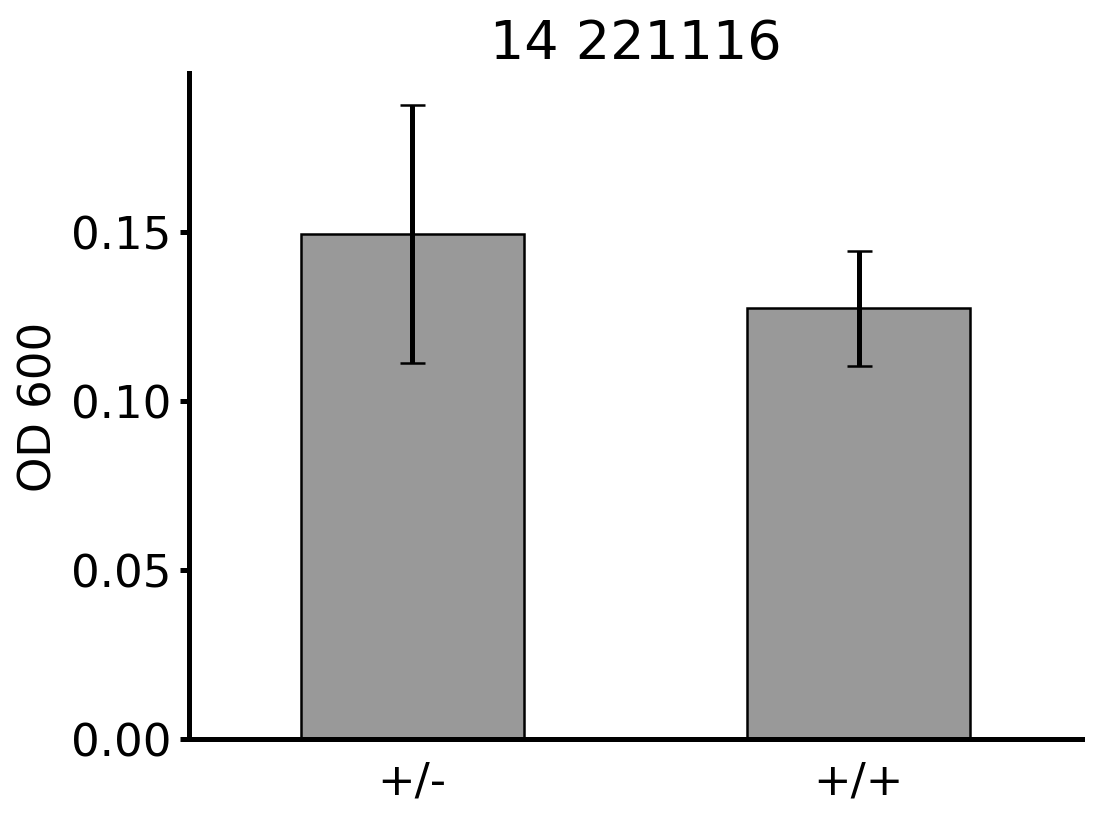
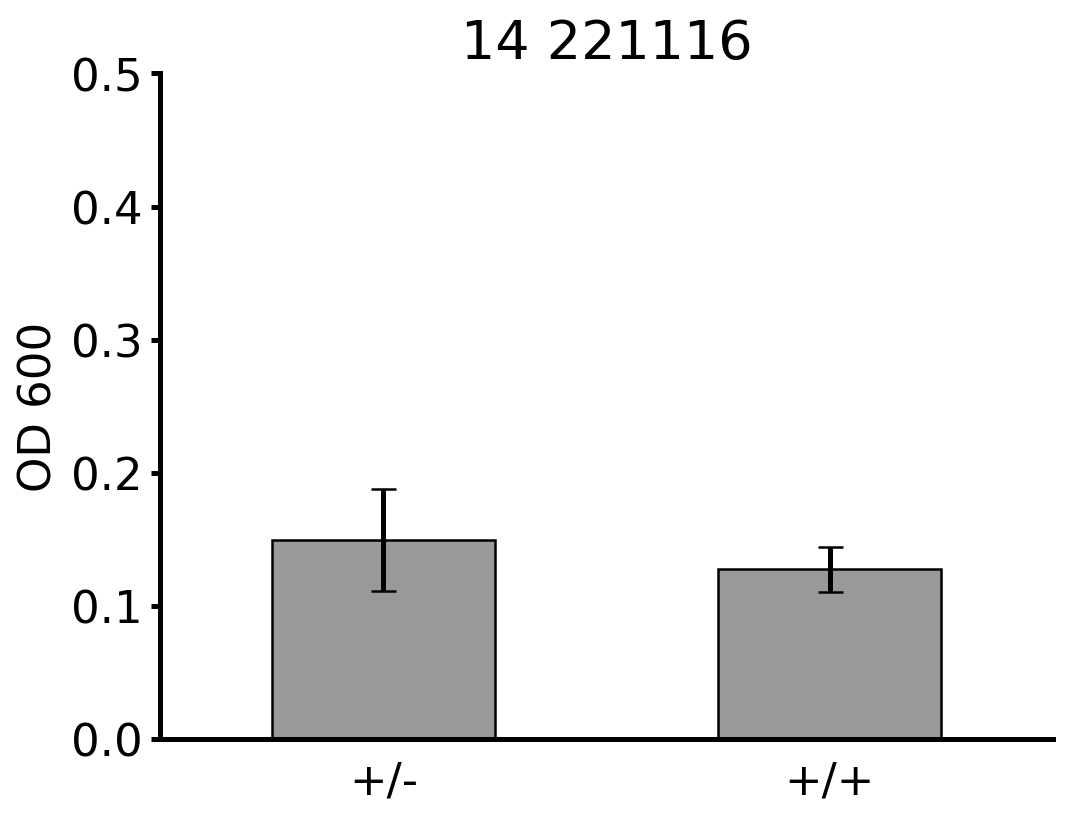
small mods #6

diff --git a/growth_binary/growth_binary.py b/growth_binary/growth_binary.py
@@ -71,7 +71,10 @@ for date in mapping.keys():
         plt.title(strain + ' ' + path[-6:])
         plt.ylabel('OD 600')
         plt.xlabel('')
-        ax.set_ylim((0,None))
+        if exp['mean'].max() > 0.5:
+            ax.set_ylim((0,2.2))
+        else:
+            ax.set_ylim((0,0.5))
         ax.spines['top'].set_visible(False)
         ax.spines['right'].set_visible(False)
         #plt.yticks(np.arange(0, 1.3, 0.25))
@@ -81,5 +84,6 @@ for date in mapping.keys():
         plt.close()
         with open('growth_binary_figures/' + str(date) + '/CGXII_'+ str(date) + '_legend.csv', "a") as myfile:
             myfile.write('strain ' + str(strain) + ' ' +str(date) + '\n')
+            #myfile.write(pd.DataFrame(mapping[date][strain].items(), columns=['short', 'composition']).to_latex(header=False, index=False))
         pd.DataFrame(mapping[date][strain].items(), columns=['short', 'composition']).to_csv('growth_binary_figures/' + str(date) + '/CGXII_'+ str(date) + '_legend.csv', mode='a', sep='\t', header=False, index=False)
 
